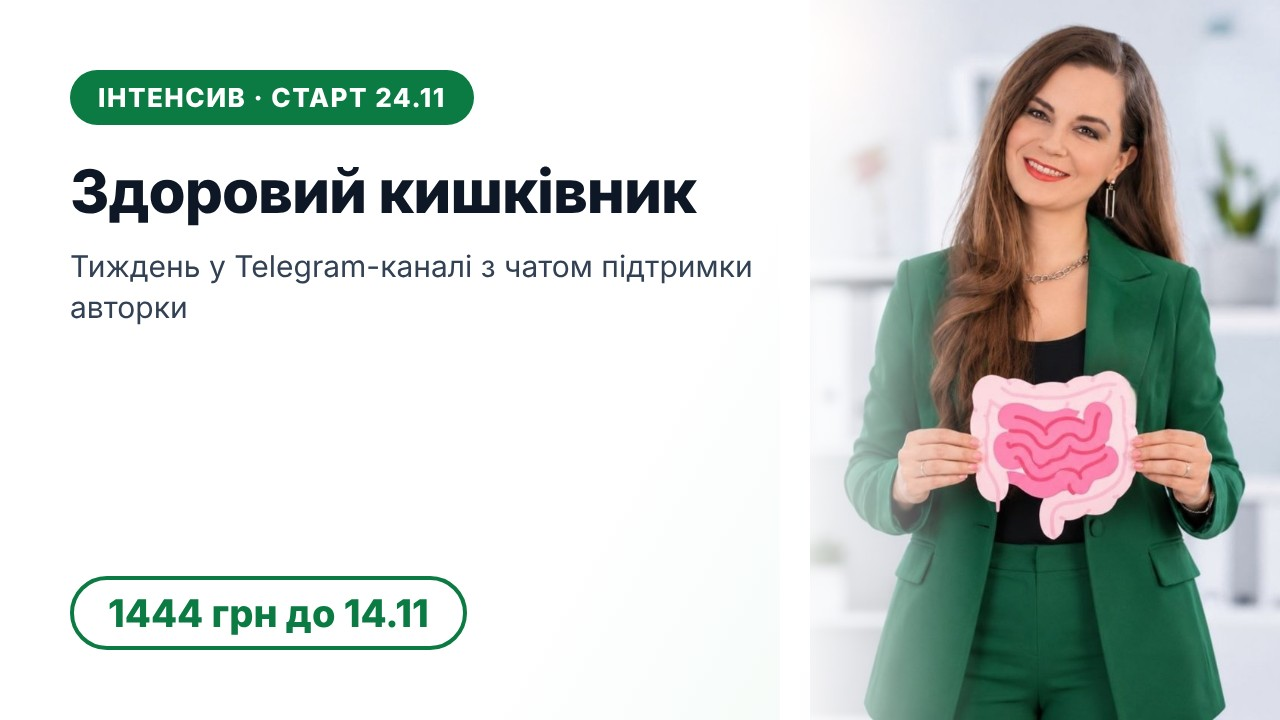
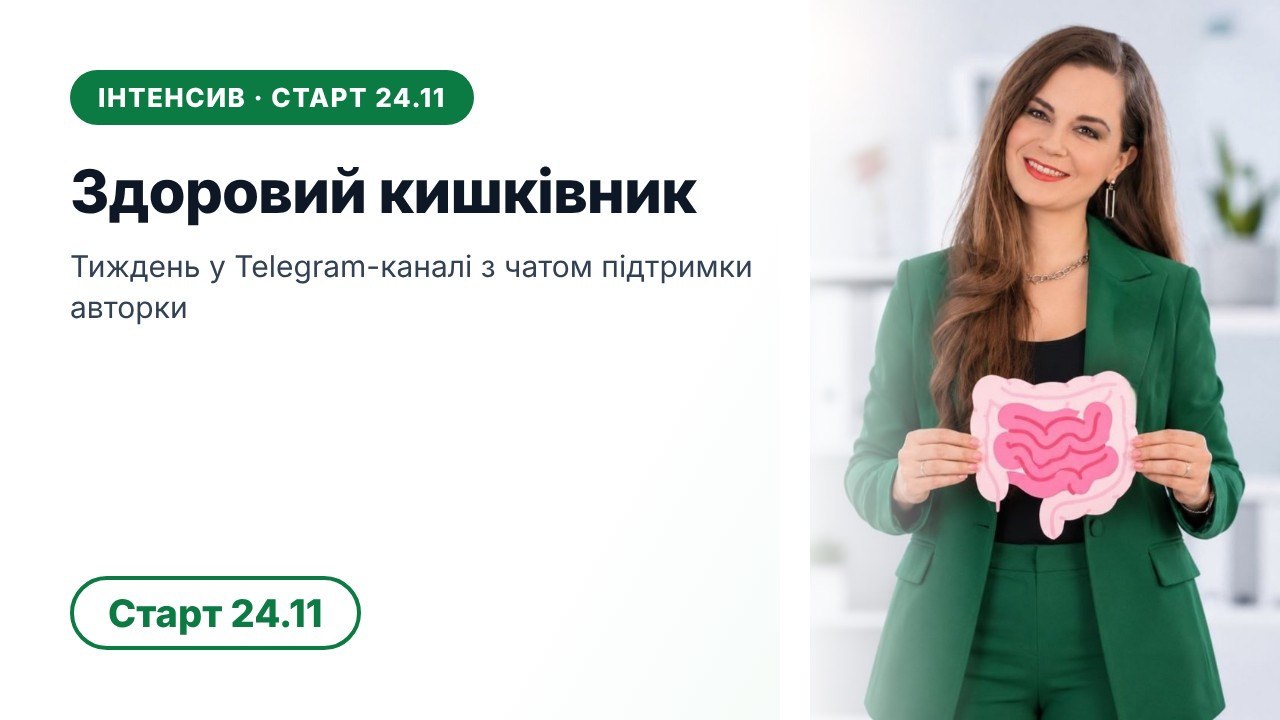
Інтенсив: спершу зацікавлення, ціна в кінці
Claude-Session: https://claude.ai/code/session_01P95tyL1PPecuZWfpcGvJVw

Changed region(s): [[0.0625, 0.7944, 0.375, 0.9167]]

diff --git a/texts.py b/texts.py
@@ -16,14 +16,13 @@ BTN_INTENSIVE = "Інтенсив «Здоровий кишківник»"
 SOON = "Скоро тут з'явиться вся інформація ❤ А поки можете подивитися інтенсив «Здоровий кишківник» 👇"
 
 # ---------- воронка «ХОЧУ»: інтенсив ----------
-INT_1 = (f"<b>Інтенсив «{C.INTENSIVE_NAME}»</b>\n\n"
+INT_1 = ("Наш кишківник це <b>«другий мозок»</b> 🧠\n\n"
+         "Від його роботи напряму залежать <b>імунітет, рівень енергії, гормональний баланс, чиста шкіра</b> та навіть гарний настрій.\n\n"
+         "<i>Якщо ви втомилися від постійного дискомфорту та хочете зустріти свята з легкістю, я запрошую вас на свій онлайн-інтенсив.</i>\n\n"
+         f"<b>Інтенсив «{C.INTENSIVE_NAME}»</b>\n"
          f"Старт: <code>{C.INTENSIVE_START}</code>\n"
          f"Тривалість: <b>{C.INTENSIVE_LENGTH}</b>\n"
-         f"Формат: <i>{C.INTENSIVE_FORMAT}</i>\n"
-         f"Вартість: <code>{C.INTENSIVE_AMOUNT} грн</code> <i>({C.INTENSIVE_PRICE_NOTE})</i>\n\n"
-         "Наш кишківник це <b>«другий мозок»</b> 🧠\n"
-         "Від його роботи напряму залежать <b>імунітет, рівень енергії, гормональний баланс, чиста шкіра</b> та навіть гарний настрій.\n\n"
-         "<i>Якщо ви втомилися від постійного дискомфорту та хочете зустріти свята з легкістю, цей онлайн-інтенсив створений для вас.</i>")
+         f"Формат: <i>{C.INTENSIVE_FORMAT}</i>")
 
 INT_AUTHOR = ("<b>Валентина Швець</b>\n"
               "<i>health-коуч, нутриціолог, натуропат</i>\n\n"

diff --git a/changelog.py b/changelog.py
@@ -10,10 +10,10 @@ import db
 
 log = logging.getLogger("changelog")
 
-VERSION = "2026-11-09-8"
+VERSION = "2026-11-09-9"
 NOTES = [
-    "Кнопка «Запитати у Валентини» тепер відкриває чат напряму з @health_shvets",
-    "У головному меню нова кнопка «Канал Валентини» (t.me/health_vshvets)",
+    "Інформація про інтенсив тепер спершу зацікавлює («другий мозок», що залежить від кишківника), а ціна звучить тільки в кінці, у розділі «Умови і ціна» і перед оплатою",
+    "На картинці «Про запуск» замість ціни тепер дата старту",
 ]
 
 
